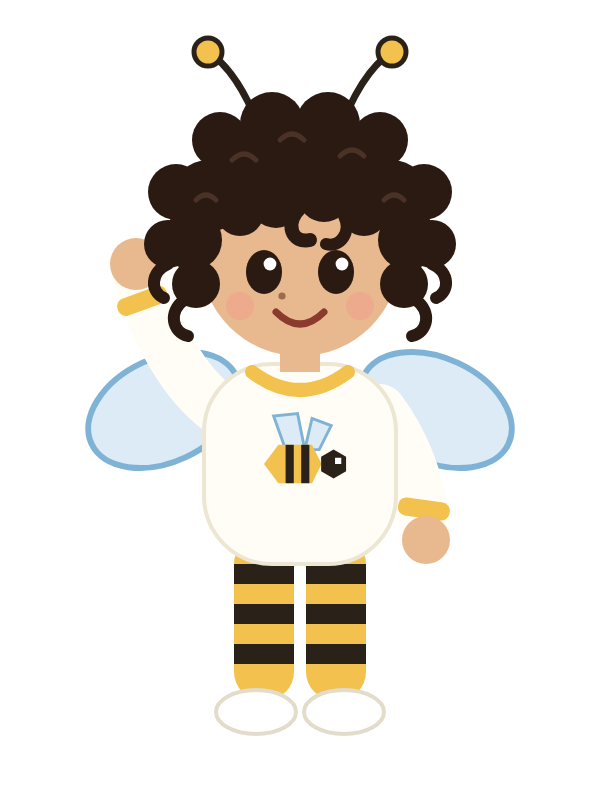
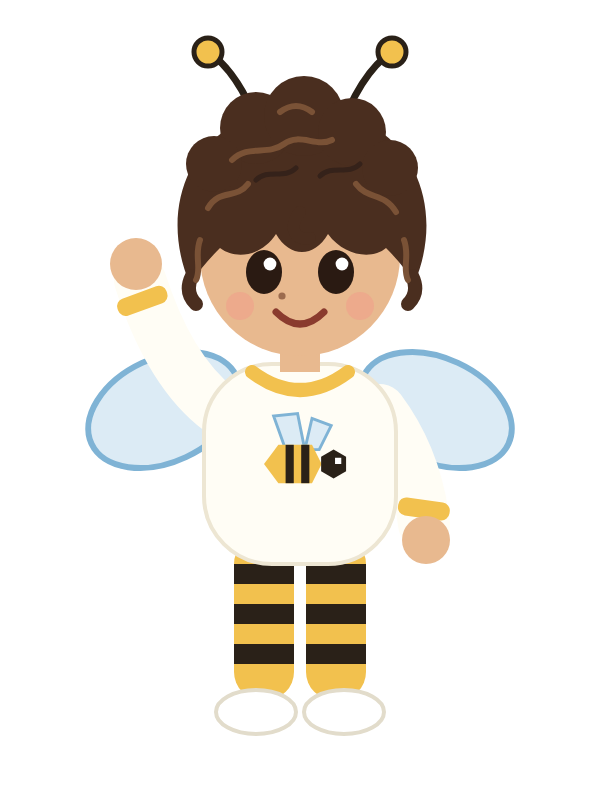
Asal flies: flapping wings, leans and turns toward where he goes, lands facing us and waves; softer brown wavy hair; speech box moves away from low items
Claude-Session: https://claude.ai/code/session_01W6GRgNYWr1Xeotk9Ro1gWi

Changed region(s): [[0.24, 0.0938, 0.78, 0.4375]]

diff --git a/app/world.css b/app/world.css
@@ -134,7 +134,53 @@
 .w-place.found::after { display: none; }
 
 /* Asal */
-.w-asal { position: absolute; width: 10em; height: auto; max-width: none; pointer-events: none; transition: left 1s cubic-bezier(0.45, 0, 0.3, 1.3), top 1s cubic-bezier(0.45, 0, 0.3, 1.3); animation: wbob 3s ease-in-out infinite; filter: drop-shadow(0 0.6em 0.6em rgba(42, 33, 24, 0.18)); }
+.w-asal { position: absolute; width: 10em; pointer-events: none; transition-property: left, top; transition-duration: 1s; transition-timing-function: cubic-bezier(0.42, 0, 0.35, 1); filter: drop-shadow(0 0.6em 0.6em rgba(42, 33, 24, 0.18)); }
+
+/* Asal's moving parts. Origins are in the drawing's own units (300 x 400). */
+.asal-art { display: block; }
+.asal-art svg, .asal-art img { display: block; width: 100%; height: auto; max-width: none; overflow: visible; }
+.a-float { animation: wbob 3s ease-in-out infinite; }
+.a-pose { transform-origin: 50% 55%; transition: transform 0.25s ease-out; }
+.asal-svg g { transform-box: view-box; }
+.asal-svg .a-wing-l { transform-origin: 114px 204px; animation: wwingl 0.5s ease-in-out infinite alternate; }
+.asal-svg .a-wing-r { transform-origin: 186px 204px; animation: wwingr 0.5s ease-in-out infinite alternate; }
+@keyframes wwingl { from { transform: rotate(8deg); } to { transform: rotate(-20deg); } }
+@keyframes wwingr { from { transform: rotate(-8deg); } to { transform: rotate(20deg); } }
+@keyframes wwinglf { from { transform: rotate(22deg) scaleY(0.8); } to { transform: rotate(-42deg); } }
+@keyframes wwingrf { from { transform: rotate(-22deg) scaleY(0.8); } to { transform: rotate(42deg); } }
+.asal-svg .a-arm { transform-origin: 112px 204px; animation: wwaveidle 7s ease-in-out infinite; }
+@keyframes wwaveidle { 0%, 80%, 100% { transform: rotate(0); } 84% { transform: rotate(-16deg); } 88% { transform: rotate(10deg); } 92% { transform: rotate(-14deg); } 96% { transform: rotate(6deg); } }
+@keyframes wwave { 0%, 100% { transform: rotate(0); } 20% { transform: rotate(-22deg); } 45% { transform: rotate(14deg); } 70% { transform: rotate(-18deg); } }
+.asal-svg .a-eyes { transform-origin: 150px 136px; animation: wblink 4.6s infinite; }
+@keyframes wblink { 0%, 93%, 100% { transform: scaleY(1); } 95.5% { transform: scaleY(0.12); } }
+.asal-svg .a-ant { transform-origin: 150px 72px; animation: want 2.2s ease-in-out infinite alternate; }
+@keyframes want { from { transform: rotate(-3deg); } to { transform: rotate(3deg); } }
+.asal-svg .a-legs { transform-origin: 150px 272px; transition: transform 0.3s ease-out; }
+
+/* Flying: fast wings, a quick up-and-down, leaning and turned toward the way she is going (mirrored when going left) */
+.w-asal.flying .a-float { animation: wflybob 0.32s ease-in-out infinite alternate; }
+@keyframes wflybob { from { transform: translateY(-0.3em); } to { transform: translateY(0.5em); } }
+.w-asal.flying .a-wing-l { animation: wwinglf 0.09s linear infinite alternate; }
+.w-asal.flying .a-wing-r { animation: wwingrf 0.09s linear infinite alternate; }
+.w-asal.flying.dir-right .a-pose { transform: rotate(18deg) scaleX(0.72); }
+.w-asal.flying.dir-left .a-pose { transform: rotate(-18deg) scaleX(-0.72); }
+.w-asal.flying .a-legs { transform: rotate(-22deg); }
+.w-asal.flying .a-arm { animation: none; transform: rotate(28deg); }
+/* Landing: turn back to face the child with a little bounce, then wave */
+.w-asal.landing.dir-right .a-pose { animation: wfaceR 0.7s ease-out; }
+.w-asal.landing.dir-left .a-pose { animation: wfaceL 0.7s ease-out; }
+@keyframes wfaceR { 0% { transform: rotate(18deg) scaleX(0.72); } 45% { transform: rotate(-4deg) scaleX(1.06) scaleY(0.94) translateY(0.4em); } 75% { transform: rotate(2deg) scaleX(0.98); } 100% { transform: none; } }
+@keyframes wfaceL { 0% { transform: rotate(-18deg) scaleX(-0.72); } 45% { transform: rotate(4deg) scaleX(1.06) scaleY(0.94) translateY(0.4em); } 75% { transform: rotate(-2deg) scaleX(0.98); } 100% { transform: none; } }
+.w-asal.landing .a-arm { animation: wwave 1.1s ease-in-out 0.35s; }
+.w-asal.landing .a-wing-l { animation: wwingl 0.22s ease-in-out infinite alternate; }
+.w-asal.landing .a-wing-r { animation: wwingr 0.22s ease-in-out infinite alternate; }
+/* Excited (move with me) and sleepy (goodbye) */
+.excited .a-wing-l { animation: wwinglf 0.12s linear infinite alternate; }
+.excited .a-wing-r { animation: wwingrf 0.12s linear infinite alternate; }
+.excited .a-arm { animation: wwave 1s ease-in-out infinite; }
+.sleepy .a-wing-l, .sleepy .a-wing-r, .sleepy .a-arm { animation-duration: 2.5s; }
+.sleepy .a-eyes { animation: wsleepy 3s ease-in-out infinite; }
+@keyframes wsleepy { 0%, 100% { transform: scaleY(1); } 40%, 70% { transform: scaleY(0.15); } }
 @keyframes wbob { 0%, 100% { transform: translateY(0) rotate(-2deg); } 50% { transform: translateY(-0.9em) rotate(2deg); } }
 
 /* Top bar */
@@ -153,10 +199,12 @@
 
 /* What Asal says */
 .w-panel { position: absolute; left: 3%; right: 3%; bottom: 3.5%; }
+.w-panel.top { top: 11.5%; bottom: auto; }
+.w-panel.top .w-panel-in { align-items: center; }
 .w-panel-in { display: flex; align-items: flex-end; background: rgba(255, 253, 248, 0.97); border: 0.25em solid #F7E7B4; border-radius: 2.4em; padding: 1.4em 2em 1.6em 1.4em; box-shadow: 0 0.6em 2em rgba(42, 33, 24, 0.22); animation: wrise 0.4s ease-out; }
 .w-panel-in.leaf { background: rgba(238, 243, 235, 0.98); border-color: #A9BFA0; }
 @keyframes wrise { from { opacity: 0; transform: translateY(1.5em); } to { opacity: 1; transform: none; } }
-.w-panel-asal { width: 8em; flex: none; margin-right: 1.6em; animation: wbob 3s ease-in-out infinite; max-width: none; height: auto; }
+.w-panel-asal { width: 8em; flex: none; margin-right: 1.6em; }
 .w-panel-words { flex: 1; min-width: 0; }
 .w-panel h2 { font-family: var(--display); font-weight: 800; font-size: 2.3em; color: #C9822A; line-height: 1.1; }
 .w-panel p { font-size: 2.25em; line-height: 1.32; color: #2A2118; margin-top: 0.25em; }
@@ -171,7 +219,7 @@
 @keyframes wfade { from { opacity: 0; } to { opacity: 1; } }
 .w-move { text-align: center; color: #FFFFFF; max-width: 72%; }
 .w-move p { font-family: var(--display); font-weight: 800; font-size: 3.4em; line-height: 1.16; margin: 0.35em 0 0.6em; }
-.w-move-asal { width: 15em; height: auto; max-width: none; margin: 0 auto; animation: wjumpbig 1.1s ease-in-out infinite; }
+.w-move-asal { width: 15em; margin: 0 auto; animation: wjumpbig 1.1s ease-in-out infinite; }
 .w-move-asal.sleepy { animation: wsleep 4s ease-in-out infinite; }
 @keyframes wjumpbig { 0%, 100% { transform: translateY(0) scale(1, 1); } 30% { transform: translateY(-2.5em) scale(0.95, 1.05); } 60% { transform: translateY(0) scale(1.05, 0.95); } }
 @keyframes wsleep { 0%, 100% { transform: rotate(-4deg); } 50% { transform: rotate(4deg) translateY(0.5em); } }
@@ -181,7 +229,7 @@
 .w-act.grown { display: block; margin: 1.2em auto 0; font-size: 1.3em; background: transparent; color: #FFFFFF; border-color: rgba(255, 255, 255, 0.5); }
 .w-act.grown.holding { background: linear-gradient(90deg, rgba(242, 193, 78, 0.8) 0%, rgba(242, 193, 78, 0.8) 100%) no-repeat; background-size: 100% 100%; animation: whold 2.5s linear; }
 @keyframes whold { from { background-size: 0% 100%; } to { background-size: 100% 100%; } }
-@media (prefers-reduced-motion: reduce) { .w-drift, .w-fly1, .w-fly2, .w-fly3, .w-butterfly, .w-asal, .w-panel-asal { animation: none; } }
+@media (prefers-reduced-motion: reduce) { .w-drift, .w-fly1, .w-fly2, .w-fly3, .w-butterfly, .a-float, .asal-svg g { animation: none !important; } }
 
 /* Home screen card that opens the world */
 .world-card { position: relative; display: block; width: 100%; text-align: left; border: 0; padding: 0; border-radius: 28px; overflow: hidden; margin-bottom: 22px; background: #BFE3F5; cursor: pointer; color: inherit; box-shadow: 0 6px 24px rgba(42, 33, 24, 0.12); }

diff --git a/app/world.js b/app/world.js
@@ -8,6 +8,11 @@
   var root = document.getElementById('root');
   var VW = 1600, VH = 900;
   var DAY = 86400000;
+  // Asal with moving parts (wings flap, arm waves, eyes blink); falls back to the plain picture.
+  function asalArt(cls) {
+    return '<div class="asal-art ' + (cls || '') + '"><div class="a-float"><div class="a-pose">' +
+      (window.ASAL_SVG || '<img src="/assets/asal.svg" alt="" width="300" height="400">') + '</div></div></div>';
+  }
 
   var S = {
     active: false, place: null, items: [], focus: -1, mode: 'world', // world | panel | move | bye
@@ -383,7 +388,7 @@
     root.innerHTML = '<div class="w-wrap t-' + night + (h >= 19 ? ' w-evening' : '') + '" id="w-wrap"><div class="w-stage" id="w-stage">' +
       SCENES[view]() +
       '<div class="w-spots" id="w-spots"></div>' +
-      '<img class="w-asal" id="w-asal" src="/assets/asal.svg" alt="" width="300" height="400">' +
+      '<div class="w-asal" id="w-asal">' + asalArt() + '</div>' +
       '<div class="w-top"><button class="w-btn w-nav" id="w-back" type="button"></button>' +
       '<div class="w-jar" id="w-jar" aria-live="polite"></div>' +
       '<button class="w-btn w-nav" id="w-sound" type="button"></button></div>' +
@@ -430,11 +435,29 @@
     back._x = 80; back._y = 50; snd._x = 1520; snd._y = 50;
     S.items.push(back, snd);
   }
+  // Asal flies: wings beat fast, she leans and turns toward where she is going, then turns to face us and waves.
   function asalTo(x, y, quick) {
     var a = document.getElementById('w-asal'); if (!a) return;
     var ax = Math.max(60, Math.min(VW - 220, x + (x > 1200 ? -230 : 90))), ay = Math.max(60, Math.min(VH - 360, y - 260));
-    if (quick) a.style.transition = 'none';
-    a.setAttribute('style', pct(ax, ay) + (quick ? ';transition:none' : ''));
+    if (quick || S.ax === undefined) {
+      clearTimeout(S.flyT); clearTimeout(S.landT);
+      a.className = 'w-asal'; a.setAttribute('style', pct(ax, ay) + ';transition:none');
+      S.ax = ax; S.ay = ay; return;
+    }
+    var dx = ax - S.ax, dy = ay - S.ay, dist = Math.sqrt(dx * dx + dy * dy);
+    if (dist < 12) return;   // already there, or already on the way
+    clearTimeout(S.flyT); clearTimeout(S.landT);
+    var dur = Math.max(0.7, Math.min(1.8, dist / 650));
+    var dir = Math.abs(dx) < 30 ? (S.dir || 'dir-right') : (dx < 0 ? 'dir-left' : 'dir-right');
+    S.dir = dir; S.ax = ax; S.ay = ay;
+    a.className = 'w-asal flying ' + dir;   // turn and lean first, then take off
+    S.flyT = setTimeout(function () {
+      a.setAttribute('style', pct(ax, ay) + ';transition-duration:' + dur + 's');
+      S.landT = setTimeout(function () {
+        a.className = 'w-asal landing ' + dir;
+        S.landT = setTimeout(function () { a.className = 'w-asal'; }, 1300);
+      }, dur * 1000);
+    }, 220);
   }
 
   // ---------- Map ----------
@@ -536,7 +559,7 @@
     acts.push({ label: 'Try it outside', fn: function () { showMission(s); } });
     if (s.link) acts.push({ label: s.link.label, fn: function () { stopAll(); location.hash = '#/lesson/' + (s.link.story || s.link.lesson); } });
     acts.push({ label: 'Keep exploring', fn: closePanel });
-    showPanel({ name: s.name, text: text, audio: audio, acts: acts, wonder: true });
+    showPanel({ name: s.name, text: text, audio: audio, acts: acts, wonder: true, spotY: s.y });
   }
   function flyNectar(s) {
     var stage = document.getElementById('w-stage'); if (!stage) return;
@@ -546,14 +569,16 @@
     setTimeout(function () { if (d.parentNode) d.parentNode.removeChild(d); updateJar(); sfx('sparkle'); var j = document.getElementById('w-jar'); if (j) { j.classList.remove('bump'); void j.offsetWidth; j.classList.add('bump'); } }, 1300);
   }
   function showMission(s) {
-    showPanel({ name: 'Try it outside', text: s.mission, audio: 'm-' + s.id, acts: [{ label: 'Back to ' + (S.place ? S.place.name.replace('The ', 'the ') : 'the map'), fn: closePanel }], leaf: true });
+    showPanel({ name: 'Try it outside', text: s.mission, audio: 'm-' + s.id, acts: [{ label: 'Back to ' + (S.place ? S.place.name.replace('The ', 'the ') : 'the map'), fn: closePanel }], leaf: true, spotY: s.y });
   }
 
   // ---------- Panel (what Asal says) ----------
   function showPanel(o) {
     S.mode = 'panel';
     var p = document.getElementById('w-panel'); if (!p) return;
-    p.innerHTML = '<div class="w-panel-in' + (o.leaf ? ' leaf' : '') + '"><img src="/assets/asal.svg" alt="" class="w-panel-asal"><div class="w-panel-words">' +
+    // Keep the words away from what the child is looking at: low things get the box at the top.
+    p.className = 'w-panel' + (o.spotY > 430 ? ' top' : '');
+    p.innerHTML = '<div class="w-panel-in' + (o.leaf ? ' leaf' : '') + '">' + asalArt('w-panel-asal') + '<div class="w-panel-words">' +
       '<h2>' + o.name + '</h2><p>' + o.text.replace(/I wonder,/, '<b>I wonder,</b>') + '</p>' +
       '<div class="w-acts">' + o.acts.map(function (a, i) { return '<button type="button" class="w-act' + (i === 0 ? ' first' : '') + '" data-i="' + i + '">' + a.label + '</button>'; }).join('') + '</div></div></div>';
     p.hidden = false;
@@ -573,7 +598,7 @@
     var o = document.getElementById('w-over'); if (!o) return;
     var p = document.getElementById('w-panel'); if (p) p.hidden = true;
     S.mode = 'move';
-    o.innerHTML = '<div class="w-move"><img src="/assets/asal.svg" alt="" class="w-move-asal"><p>' + s.move.text + '</p><div class="w-count"><i></i></div><button type="button" class="w-act first" id="w-move-done">We did it!</button></div>';
+    o.innerHTML = '<div class="w-move">' + asalArt('w-move-asal excited') + '<p>' + s.move.text + '</p><div class="w-count"><i></i></div><button type="button" class="w-act first" id="w-move-done">We did it!</button></div>';
     o.hidden = false;
     var done = function () { clearTimeout(S.moveTimer); o.hidden = true; o.innerHTML = ''; sfx('chime'); S.mode = 'world'; closePanel(); };
     document.getElementById('w-move-done').addEventListener('click', done);
@@ -599,7 +624,7 @@
     var wrap = document.getElementById('w-wrap'); if (wrap) wrap.classList.add('w-sleepy');
     var p = document.getElementById('w-panel'); if (p) p.hidden = true;
     var o = document.getElementById('w-over'); if (!o) return;
-    o.innerHTML = '<div class="w-move bye"><img src="/assets/asal.svg" alt="" class="w-move-asal sleepy"><p>' + W.bye.text + '</p>' +
+    o.innerHTML = '<div class="w-move bye">' + asalArt('w-move-asal sleepy') + '<p>' + W.bye.text + '</p>' +
       '<button type="button" class="w-act first" id="w-bye-home">Goodbye, Asal!</button>' +
       '<button type="button" class="w-act grown" id="w-bye-more">Grown-ups: hold for 10 more minutes</button></div>';
     o.hidden = false;

diff --git a/app/asal-inline.js b/app/asal-inline.js
@@ -1,0 +1,2 @@
+// Asal as inline SVG with named parts (wings, arm, legs, eyes, antennae) so they can be animated. Made from assets/asal.svg.
+window.ASAL_SVG = "<svg xmlns=\"http://www.w3.org/2000/svg\" viewBox=\"0 0 300 400\" class=\"asal-svg\" aria-hidden=\"true\"><g class=\"a-wing a-wing-l\"><ellipse cx=\"82\" cy=\"205\" rx=\"40\" ry=\"26\" transform=\"rotate(-25 82 205)\" fill=\"#DCEBF5\" stroke=\"#7FB3D5\" stroke-width=\"3\"/></g><g class=\"a-wing a-wing-r\"><ellipse cx=\"218\" cy=\"205\" rx=\"40\" ry=\"26\" transform=\"rotate(25 218 205)\" fill=\"#DCEBF5\" stroke=\"#7FB3D5\" stroke-width=\"3\"/></g><g class=\"a-legs\"><rect x=\"117\" y=\"268\" width=\"30\" height=\"82\" rx=\"14\" fill=\"#F2C14E\"/><rect x=\"153\" y=\"268\" width=\"30\" height=\"82\" rx=\"14\" fill=\"#F2C14E\"/><rect x=\"117\" y=\"282\" width=\"30\" height=\"10\" fill=\"#2A2118\"/><rect x=\"117\" y=\"302\" width=\"30\" height=\"10\" fill=\"#2A2118\"/><rect x=\"117\" y=\"322\" width=\"30\" height=\"10\" fill=\"#2A2118\"/><rect x=\"153\" y=\"282\" width=\"30\" height=\"10\" fill=\"#2A2118\"/><rect x=\"153\" y=\"302\" width=\"30\" height=\"10\" fill=\"#2A2118\"/><rect x=\"153\" y=\"322\" width=\"30\" height=\"10\" fill=\"#2A2118\"/><ellipse cx=\"128\" cy=\"356\" rx=\"20\" ry=\"11\" fill=\"#FFFFFF\" stroke=\"#E2DCCB\" stroke-width=\"2\"/><ellipse cx=\"172\" cy=\"356\" rx=\"20\" ry=\"11\" fill=\"#FFFFFF\" stroke=\"#E2DCCB\" stroke-width=\"2\"/></g><path d=\"M190 205 C205 225 210 245 212 262\" fill=\"none\" stroke=\"#FFFDF5\" stroke-width=\"26\" stroke-linecap=\"round\"/><rect x=\"199\" y=\"250\" width=\"26\" height=\"9\" rx=\"4\" transform=\"rotate(8 212 254)\" fill=\"#F2C14E\"/><circle cx=\"213\" cy=\"270\" r=\"12\" fill=\"#E8B98F\"/><g class=\"a-arm\"><path d=\"M110 205 C90 190 78 165 70 140\" fill=\"none\" stroke=\"#FFFDF5\" stroke-width=\"26\" stroke-linecap=\"round\"/><path d=\"M110 205 C90 190 78 165 70 140\" fill=\"none\" stroke=\"#EDE6D3\" stroke-width=\"2\" stroke-linecap=\"round\" opacity=\"0\"/><rect x=\"58\" y=\"146\" width=\"26\" height=\"9\" rx=\"4\" transform=\"rotate(-20 71 150)\" fill=\"#F2C14E\"/><circle cx=\"68\" cy=\"132\" r=\"13\" fill=\"#E8B98F\"/></g><rect x=\"102\" y=\"182\" width=\"96\" height=\"100\" rx=\"34\" fill=\"#FFFDF5\" stroke=\"#EDE6D3\" stroke-width=\"2\"/><path d=\"M126 186 Q150 204 174 186\" fill=\"none\" stroke=\"#F2C14E\" stroke-width=\"7\" stroke-linecap=\"round\"/><g transform=\"translate(150 232) scale(1.2)\"><polygon points=\"-6,-6 -11,-20 -1,-21 2,-6\" fill=\"#DCEBF5\" stroke=\"#7FB3D5\" stroke-width=\"1.2\"/><polygon points=\"2,-6 5,-19 13,-16 8,-6\" fill=\"#DCEBF5\" stroke=\"#7FB3D5\" stroke-width=\"1.2\"/><polygon points=\"-15,0 -9,-8 5,-8 9,0 5,8 -9,8\" fill=\"#F2C14E\"/><rect x=\"-6\" y=\"-8\" width=\"3.4\" height=\"16\" fill=\"#2A2118\"/><rect x=\"0.5\" y=\"-8\" width=\"3.4\" height=\"16\" fill=\"#2A2118\"/><polygon points=\"14,-6 19.2,-3 19.2,3 14,6 8.8,3 8.8,-3\" fill=\"#2A2118\"/><rect x=\"14.6\" y=\"-2.6\" width=\"2.6\" height=\"2.6\" fill=\"#FFFFFF\"/></g><rect x=\"140\" y=\"168\" width=\"20\" height=\"18\" fill=\"#E8B98F\"/><circle cx=\"150\" cy=\"128\" r=\"50\" fill=\"#E8B98F\"/><g class=\"a-ant\"><path d=\"M132 70 Q120 36 104 26 M168 70 Q180 36 196 26\" fill=\"none\" stroke=\"#2A2118\" stroke-width=\"3.5\" stroke-linecap=\"round\"/><circle cx=\"104\" cy=\"26\" r=\"7\" fill=\"#F2C14E\" stroke=\"#2A2118\" stroke-width=\"2.5\"/><circle cx=\"196\" cy=\"26\" r=\"7\" fill=\"#F2C14E\" stroke=\"#2A2118\" stroke-width=\"2.5\"/></g><path d=\"M95 142 C82 112 90 80 113 65 C133 51 169 51 189 65 C212 80 220 112 207 142 C204 136 199 130 193 124 C186 130 172 128 164 117 C157 129 145 129 138 117 C131 128 118 130 110 124 C104 130 99 136 95 142 Z\" fill=\"#4A2E1F\"/><path d=\"M96 138 q-4 8 2 14 M206 138 q4 8 -2 14\" stroke=\"#4A2E1F\" stroke-width=\"7\" fill=\"none\" stroke-linecap=\"round\"/><g fill=\"#4A2E1F\"><circle cx=\"128\" cy=\"64\" r=\"18\"/><circle cx=\"152\" cy=\"58\" r=\"20\"/><circle cx=\"176\" cy=\"66\" r=\"17\"/><circle cx=\"107\" cy=\"82\" r=\"14\"/><circle cx=\"195\" cy=\"84\" r=\"14\"/></g><g fill=\"none\" stroke=\"#7A5236\" stroke-width=\"3\" stroke-linecap=\"round\"><path d=\"M116 80 C124 72 134 78 142 72 C150 66 158 74 166 70\"/><path d=\"M104 104 C110 94 118 100 124 92\"/><path d=\"M178 92 C184 100 192 96 198 106\"/><path d=\"M100 120 C97 128 101 134 98 140\"/><path d=\"M202 120 C205 128 201 134 204 140\"/><path d=\"M140 56 q8 -6 16 0\"/></g><g fill=\"none\" stroke=\"#35221A\" stroke-width=\"2.5\" stroke-linecap=\"round\"><path d=\"M128 90 C134 84 142 90 148 84\"/><path d=\"M160 88 C166 82 174 88 180 82\"/></g><path d=\"M150 106 C144 113 147 121 155 119\" fill=\"none\" stroke=\"#4A2E1F\" stroke-width=\"6\" stroke-linecap=\"round\"/><g class=\"a-eyes\"><ellipse cx=\"132\" cy=\"136\" rx=\"9\" ry=\"11\" fill=\"#2A1A12\"/><ellipse cx=\"168\" cy=\"136\" rx=\"9\" ry=\"11\" fill=\"#2A1A12\"/></g><circle cx=\"135\" cy=\"132\" r=\"3.2\" fill=\"#FFFFFF\"/><circle cx=\"171\" cy=\"132\" r=\"3.2\" fill=\"#FFFFFF\"/><circle cx=\"120\" cy=\"153\" r=\"7\" fill=\"#F0A08A\" opacity=\"0.6\"/><circle cx=\"180\" cy=\"153\" r=\"7\" fill=\"#F0A08A\" opacity=\"0.6\"/><path d=\"M138 156 Q150 168 162 156\" fill=\"none\" stroke=\"#8A3B2E\" stroke-width=\"3.5\" stroke-linecap=\"round\"/><circle cx=\"141\" cy=\"148\" r=\"1.8\" fill=\"#9C6B4E\"/></svg>";

diff --git a/app/index.html b/app/index.html
@@ -22,6 +22,7 @@
 <div id="root" aria-live="polite"><p class="loading">Opening the garden…</p></div>
 <dialog id="grownups" aria-labelledby="gu-title"></dialog>
 <script src="/app/lessons.js"></script>
+<script src="/app/asal-inline.js"></script>
 <script src="/app/world-data.js"></script>
 <script src="/app/world.js"></script>
 <script src="/app/app.js"></script>
